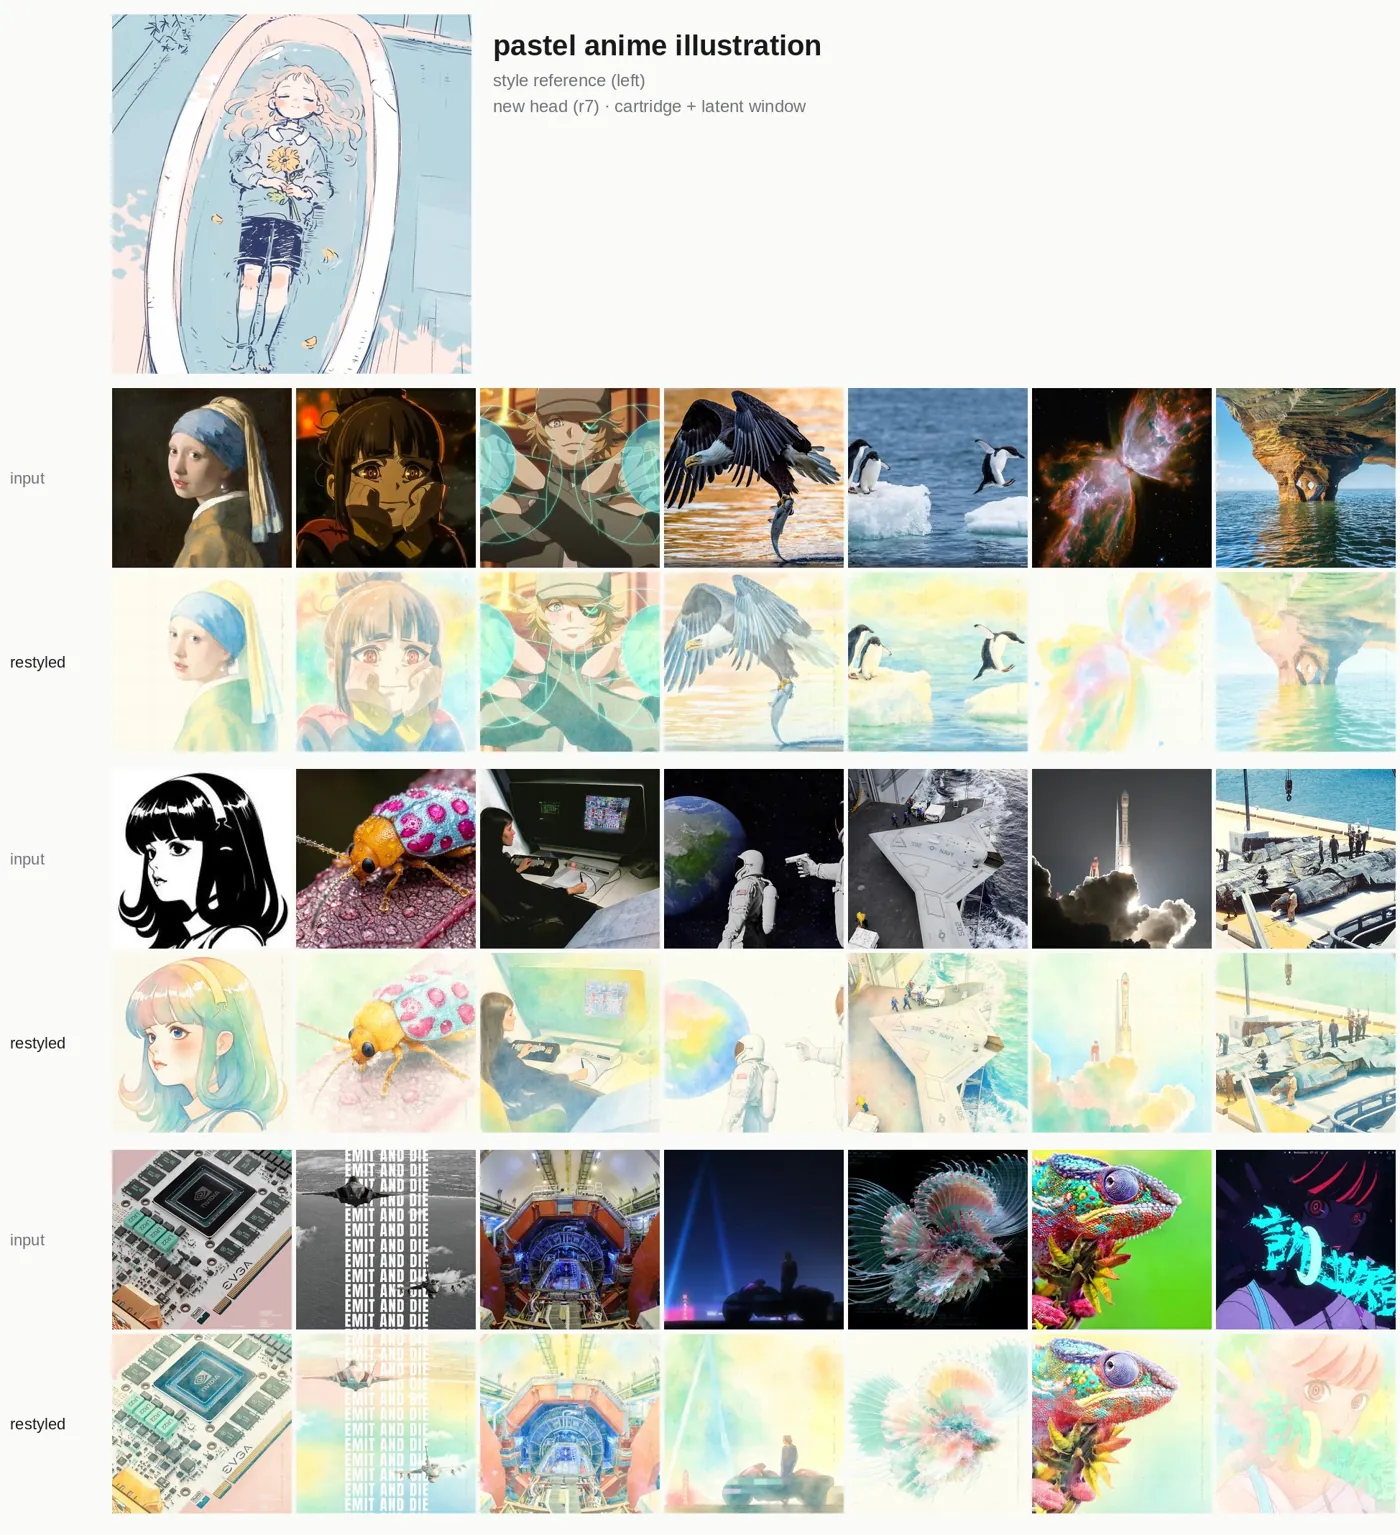
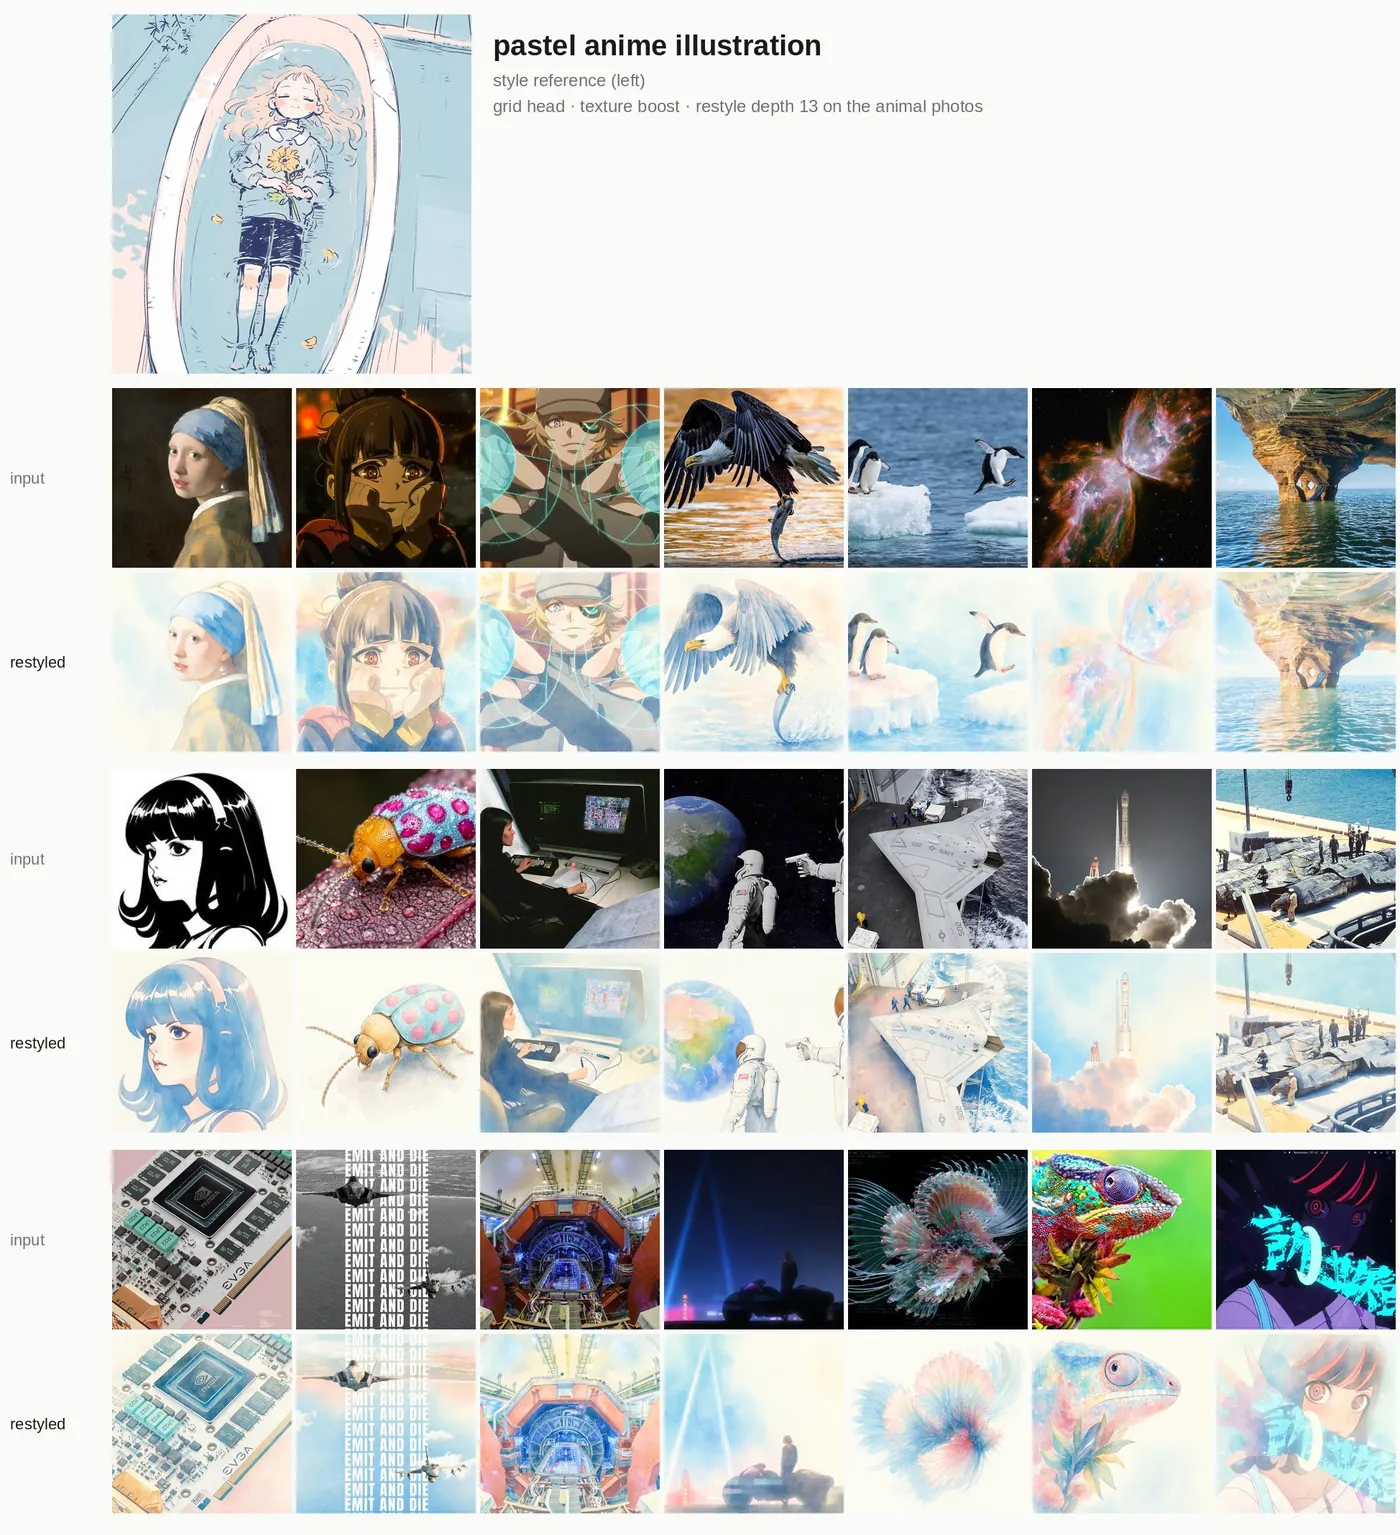
README: showcase images regenerated with the grid head (texture boost, restyle depth 13 on animal photos); add crayon drawing

diff --git a/README.md b/README.md
@@ -42,6 +42,8 @@ random = pipe.random(48213)                                       # a random sty
 ## sample outputs
 Some restyled samples can be visualized here: [Chameleon showcase](https://claude.ai/artifact/CqQjJsQ1nsJfTNaPFKXY1y).
 
+![crayon drawing](assets/crayon.webp)
+
 ![Sistine Chapel fresco](assets/sistine.webp)
 
 ![ink sketch](assets/inksketch.webp)
